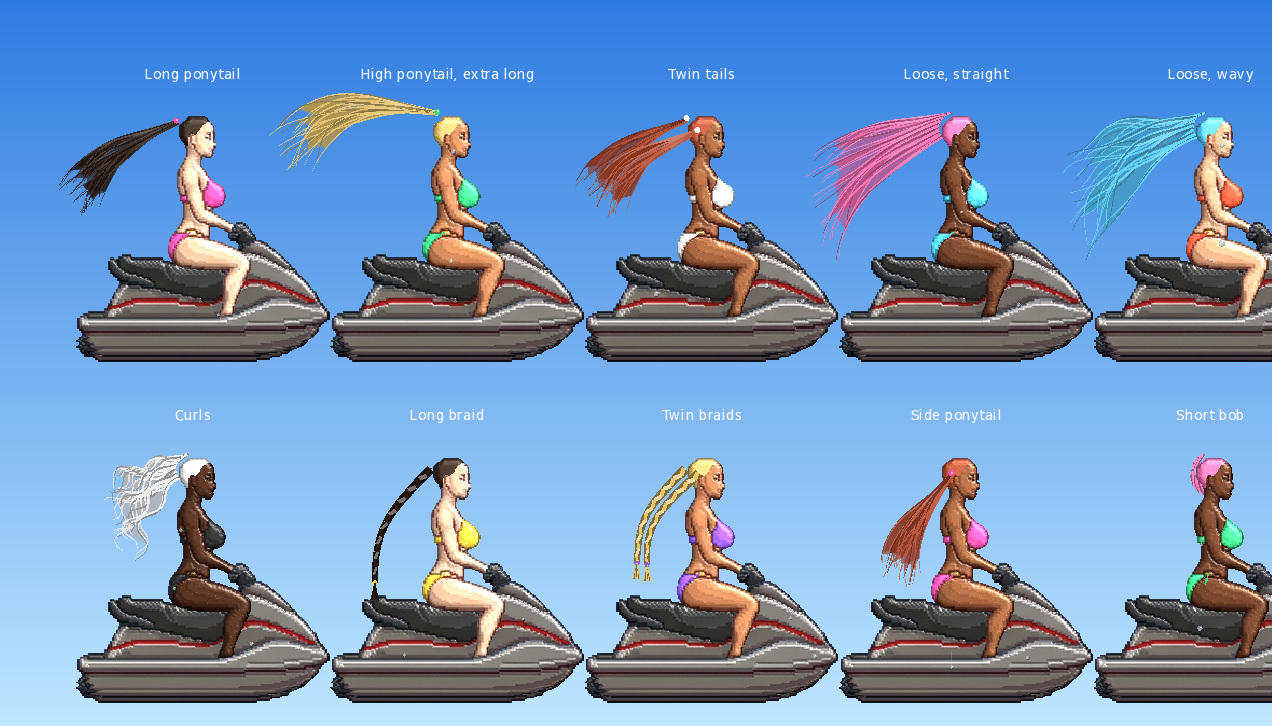
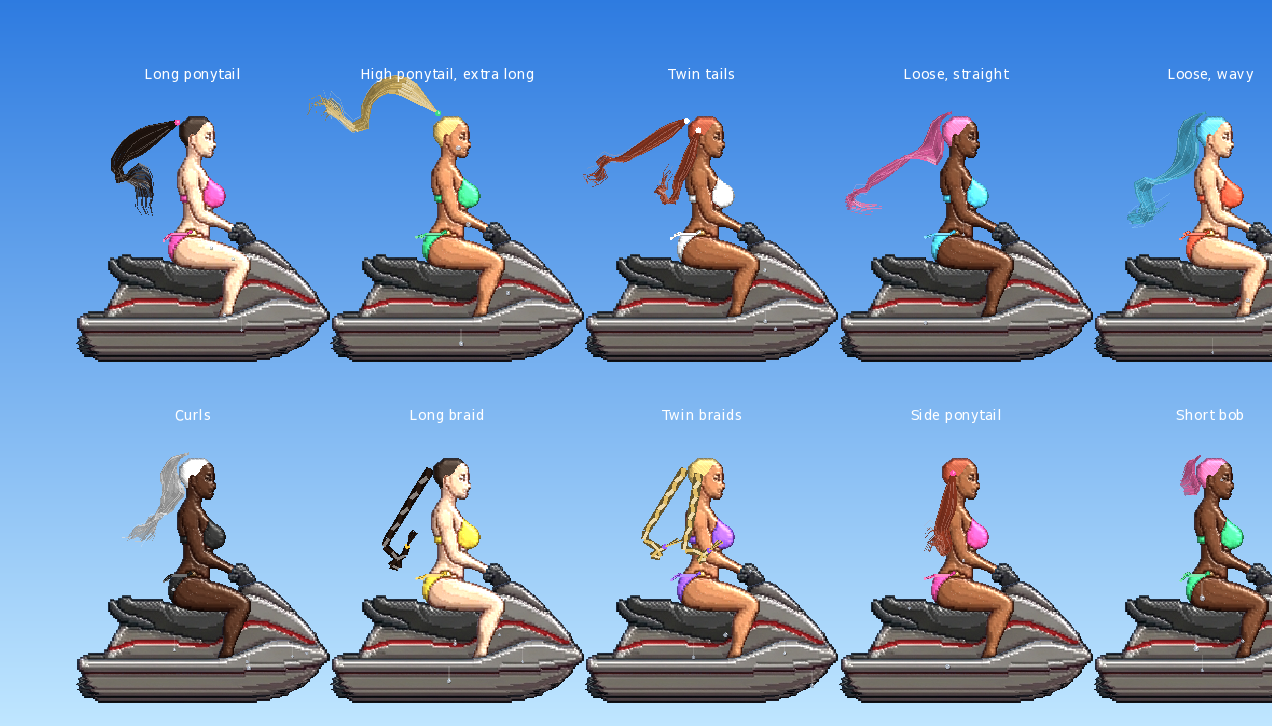
Divaverse 0.10.0: hair and tie systems rebuilt as a strand simulation
Position-based guide strands (drag against apparent wind, turbulence, rest
shape, volume, silhouette collision), interpolated render strands lit from the
tangent, wet clumping and drips. Bikini ties share the solver.

Claude-Session: https://claude.ai/code/session_01Eo8YecRa9dH6NsL1SwKCKJ

diff --git a/Apps/Player/src/WetRash.cpp b/Apps/Player/src/WetRash.cpp
@@ -661,24 +661,26 @@ void BakeSide(const Look& lk, SideSpr& sp) {
 }
 
 // ---- state
-const int HS = 30, HN = 18, HSTYLES = 10;
-// root: 0 back of the head, 1 crown, 2 twin (one behind, one in front), 3 along the scalp, 4 plait(s) from the nape, 5 bob, 6 over the near shoulder
-struct HairStyle { const wchar_t* name; int n, nodes; float seg, width, grav, wind, fan, droop, rip, wave, waveF; int root; };
+const int HG = 8, HN = 18, HSTYLES = 10, TN = 6, TMAX = 8;
+// root: 0 back of the head, 1 crown, 2 twin (one behind, one in front), 3 along the scalp, 4 plait(s) from the nape, 5 bob, 6 over the near shoulder.
+// groups x g guide strands are simulated; vol is the spacing kept between neighbours, stiffRoot / stiff how strongly the rest shape is held near the root / all along,
+// curl / curlF the rest curvature (radians per segment, and how fast it alternates), drag how much the air takes hold, dir the angle it leaves the head at (0 back, pi/2 down).
+struct HairStyle { const wchar_t* name; int root, groups, g, nodes; float seg, vol, stiffRoot, stiff, curl, curlF, drag, width, dir; };
 const HairStyle kStyle[HSTYLES] = {
-    { L"Long ponytail",        26, 16, 8.4f, 2.2f, 470, 1.00f, 0.30f, 0.55f, 0.30f, 0,     0,    0 },
-    { L"High ponytail, extra long", 26, 18, 9.4f, 2.2f, 470, 1.00f, 0.28f, 1.00f, 0.30f, 0, 0,   1 },
-    { L"Twin tails",           28, 16, 8.0f, 2.1f, 480, 1.00f, 0.30f, 0.60f, 0.30f, 0,     0,    2 },
-    { L"Loose, straight",      30, 18, 8.4f, 2.2f, 430, 1.00f, 0.75f, 0.50f, 0.24f, 0,     0,    3 },
-    { L"Loose, wavy",          30, 18, 8.4f, 2.2f, 430, 1.00f, 0.80f, 0.50f, 0.22f, 0.42f, 7.5f, 3 },
-    { L"Curls",                30, 18, 5.6f, 2.4f, 450, 0.70f, 1.00f, 0.50f, 0.16f, 1.15f, 13.f, 3 },
-    { L"Long braid",            1, 18, 7.2f, 1.5f, 760, 0.75f, 0.04f, 0.75f, 0.14f, 0,     0,    4 },
-    { L"Twin braids",           2, 16, 6.8f, 1.5f, 760, 0.75f, 0.04f, 0.75f, 0.14f, 0,     0,    4 },
-    { L"Side ponytail",        24, 16, 7.6f, 2.1f, 700, 0.55f, 0.30f, 0.50f, 0.22f, 0.20f, 6.f,  6 },
-    { L"Short bob",            22,  6, 3.6f, 2.2f, 620, 0.13f, 1.00f, 0.50f, 0.10f, 0,     0,    5 } };
+    { L"Long ponytail",             0, 1, 8, 17, 9.4f, 3.2f, 0.50f, 0.008f, 0,     0,    1.00f, 2.1f, 0.45f },
+    { L"High ponytail, extra long", 1, 1, 8, 18, 11.0f, 3.2f, 0.55f, 0.008f, 0,     0,    1.00f, 2.1f, -0.70f },
+    { L"Twin tails",                2, 2, 4, 17, 8.8f, 3.6f, 0.45f, 0.008f, 0,     0,    1.00f, 2.1f, 0.55f },
+    { L"Loose, straight",           3, 1, 8, 18, 10.2f, 1.3f, 0.40f, 0.008f, 0,     0,    1.00f, 2.2f, 0.9f },
+    { L"Loose, wavy",               3, 1, 8, 18, 10.6f, 1.5f, 0.40f, 0.10f, 0.40f, 0.9f, 0.95f, 2.2f, 0.9f },
+    { L"Curls",                     3, 1, 8, 18, 6.6f, 2.0f, 0.40f, 0.26f, 0.95f, 1.6f, 0.80f, 2.3f, 0.9f },
+    { L"Long braid",                4, 1, 1, 18, 8.4f, 0,    0.40f, 0.06f, 0,     0,    0.50f, 1.5f, 1.0f },
+    { L"Twin braids",               4, 2, 1, 17, 7.6f, 0,    0.40f, 0.06f, 0,     0,    0.50f, 1.5f, 1.0f },
+    { L"Side ponytail",             6, 1, 6, 17, 8.2f, 3.0f, 0.45f, 0.008f, 0.10f, 0.7f, 0.90f, 2.1f, 1.45f },
+    { L"Short bob",                 5, 1, 8,  7, 5.0f, 1.0f, 0.45f, 0.06f, 0,     0,    0.80f, 2.2f, 1.3f } };
 struct Bead { float x, y, vy, size, stick, age, y0; int id; };
 struct Wound { float x = 0, y = 0, t = 0; };
 struct SRider { float x = 0, hop = 0, vy = 0, duck = 0, throwT = -1, flash = 0, cool = 0, hp = 3, out = 0, aiT = 1, aiX = 0, face = 1, wet = 0.3f, jy = 0, jvy = 0, jx = 0, jvx = 0, py = 0, pvy = 0, bleed = 0, ays = 0, ha = 0.5f, hav = 0; bool threw = false, bot = true, pinit = false; float soak = 0; std::vector<Bead> beads;
-    Look look; SideSpr spr; V2 hair[HS][HN], hairP[HS][HN], tie[2][4], tieP[2][4]; bool init = false; int istyle = -1; Wound wound[5]; std::wstring name; };
+    Look look; SideSpr spr; V2 hair[HG][HN], hairP[HG][HN], tie[TMAX][TN], tieP[TMAX][TN], hO = { 0, 0 }; bool tinit[TMAX] = {}, hOk = false; int tieN = 0; bool init = false; int istyle = -1; Wound wound[5]; std::wstring name; };
 struct Spear { float x, y, vx, vy; int owner; bool live; };
 enum { FX_DROP, FX_MIST, FX_BLOOD, FX_FOAM, FX_STAIN };
 struct Fx { float x, y, vx, vy, life, max, size; int kind; uint32_t col; };
@@ -790,69 +792,115 @@ void SideDraw(SRider& r, float sx, float base, float S, float rot, bool sim) {
     int f = SideFrame(r); const SdFrameInfo& fi = kSdFrames[f]; const HairStyle& hs = kStyle[r.look.style % HSTYLES]; const float dt = 1 / 60.f;
     // sprite space: 318x237 cell, ski centre x = 117, waterline about y = 215
     auto M = D2D1::Matrix3x2F::Translation(-117, -215) * D2D1::Matrix3x2F::Scale(r.face * S, S) * D2D1::Matrix3x2F::Rotation(rot * r.face) * D2D1::Matrix3x2F::Translation(sx, base - r.hop + 4 * S);
+    auto Mnr = D2D1::Matrix3x2F::Translation(-117, -215) * D2D1::Matrix3x2F::Scale(r.face * S, S) * D2D1::Matrix3x2F::Translation(sx, base - r.hop + 4 * S);     // the same without the tilt: hair and ties live in an upright frame
     bool red = r.flash > 0 && std::fmod(r.flash, 0.12f) > 0.05f;
     auto blit = [&](int k, bool rd) { const int* b = kSdFrames[k].bbox; RectF d = RF((float)b[0], (float)b[1], (float)(b[2] - b[0]), (float)(b[3] - b[1])); C().BitmapPx((rd ? r.spr.red[k] : r.spr.f[k]).Get(), d); if (!rd && r.wet > 0.02f && r.spr.wet[k]) C().BitmapPx(r.spr.wet[k].Get(), d, std::min(1.f, r.wet)); };
     if (sim) {
         // secondary motion is driven by how the body is being accelerated, in sprite pixels
         float y = (base - r.hop) / S; if (!r.pinit) { r.py = y; r.pvy = 0; r.pinit = true; } float vy = (y - r.py) / dt, ay = std::clamp((vy - r.pvy) / dt, -5000.f, 5000.f); r.py = y; r.pvy = vy; r.ays += (ay - r.ays) * 0.15f;
         r.jvy += (-260 * r.jy - 13 * r.jvy + ay * 0.11f) * dt; r.jy = std::clamp(r.jy + r.jvy * dt, -5.f, 6.f); r.jvx += (-300 * r.jx - 15 * r.jvx) * dt; r.jx = std::clamp(r.jx + r.jvx * dt, -4.f, 4.f);
-        float hx = fi.head[0], hy = fi.head[1], hr = fi.head[2], wind = -(1050 + G.gust * 900 + (G.weather == 3 ? 620.f : G.weather == 2 ? 260.f : 0)) * hs.wind;
-        if (r.istyle != r.look.style) { r.init = false; r.istyle = r.look.style; }
-        auto chain = [&](V2* p, V2* q, int n, V2 a, float seg, float ph, float grav, float wnd, bool head) {
-            if (!r.init) for (int i = 0; i < n; ++i) p[i] = q[i] = { a.x - seg * i * 0.8f, a.y + seg * i * 0.6f }; p[0] = a;
-            for (int i = 1; i < n; ++i) { V2 v = { (p[i].x - q[i].x) * 0.94f, (p[i].y - q[i].y) * 0.94f }; q[i] = p[i]; float fl = (std::sin(G.t * 8 - i * 0.7f + ph * 0.12f) * 230 + std::sin(G.t * 17 - i * 1.1f + ph * 0.4f) * 60) * (0.3f + 0.7f * i / n);      // neighbouring strands move together, so it reads as a mass
-                p[i].x += v.x + wnd * (0.75f + 0.25f * std::sin(G.t * 3 + ph)) * dt * dt; p[i].y += v.y + (grav + fl - r.ays * 0.10f) * dt * dt; }
-            for (int it = 0; it < 4; ++it) for (int i = 1; i < n; ++i) { float dx = p[i].x - p[i - 1].x, dy = p[i].y - p[i - 1].y, d = std::sqrt(dx * dx + dy * dy) + 1e-4f, k = (d - seg) / d; p[i].x -= dx * k; p[i].y -= dy * k;
-                if (head) { float ex = p[i].x - hx, ey = p[i].y - hy, e = std::sqrt(ex * ex + ey * ey) + 1e-4f; if (e < hr * 0.98f) { p[i].x = hx + ex / e * hr * 0.98f; p[i].y = hy + ey / e * hr * 0.98f; }
-                    if (p[i].y > hy + hr * 0.7f && p[i].x > hx - hr * 0.55f) p[i].x = hx - hr * 0.55f; } } };                      // keep it behind the neck and shoulders
-        float tgt = std::atan2(hs.grav, -wind); r.hav += ((tgt - r.ha) * 60 - r.hav * 7 - r.ays * 0.0009f) * dt; r.ha = std::clamp(r.ha + r.hav * dt, -0.5f, 1.9f);                 // the whole mass swings on a spring: wind against gravity, kicked by hops and waves
-        for (int s = 0; s < hs.n; ++s) { V2 a; float u = hs.n > 1 ? s / (float)(hs.n - 1) : 0.5f, seg = hs.seg * (hs.root == 4 ? 1.f : 0.84f + 0.22f * Hash(s * 3 + 1)), th0 = r.ha;
+        // ---- hair and ties: position-based strands. They are simulated in an upright frame that travels with the rider, so every hop, wave, lunge and pose change
+        // reaches them as real motion of their roots. Forces are gravity and air drag against the apparent wind (with a travelling turbulence field); constraints keep
+        // segment length, a rest shape (stiff where the hair leaves the head or its tie, the style's curl further down), spacing between neighbouring guides (volume),
+        // and keep everything outside the head and off her back, using the sprite's own silhouette.
+        float hx = fi.head[0], hy = fi.head[1], hr = fi.head[2], cr = std::cos(rot * PI / 180), sr = std::sin(rot * PI / 180), wetH = std::clamp((r.wet - 0.3f) * 1.4f, 0.f, 1.f);
+        auto up = [&](V2 p) { float x = p.x - 117, y = p.y - 215; return V2{ 117 + x * cr - y * sr, 215 + x * sr + y * cr }; };            // sprite -> upright
+        auto dn = [&](V2 p) { float x = p.x - 117, y = p.y - 215; return V2{ 117 + x * cr + y * sr, 215 - x * sr + y * cr }; };            // upright -> sprite
+        auto alphaAt = [&](int k, V2 s) { const int* b = kSdFrames[k].bbox; int xi = (int)std::floor(s.x) - b[0], yi = (int)std::floor(s.y) - b[1], w = b[2] - b[0]; const auto& am = r.spr.am[k];
+            return xi >= 0 && yi >= 0 && xi < w && yi < b[3] - b[1] && (size_t)(yi * w + xi) < am.size() && am[(size_t)yi * w + xi] > 128; };
+        auto collide = [&](V2& p, V2& q, float m) { V2 s = dn(p); /* m: how far off the surface this strand rides, so the layers stack into a thickness */ bool hit = false; float ex = s.x - hx, ey = s.y - hy, e = std::sqrt(ex * ex + ey * ey);
+            if (e < hr * 0.97f + m * 0.6f && e > 1e-3f) { s.x = hx + ex / e * (hr * 0.97f + m * 0.6f); s.y = hy + ey / e * (hr * 0.97f + m * 0.6f); hit = true; }
+            if (alphaAt(f, { s.x + m, s.y })) for (int k = 1; k <= 22; ++k) if (!alphaAt(f, { s.x + m - k, s.y })) { s.x -= k - 0.4f; hit = true; break; }                     // off her back: out toward behind her
+            if (alphaAt(SD_BODY, s)) for (int k = 1; k <= 12; ++k) if (!alphaAt(SD_BODY, { s.x, s.y - k })) { s.y -= k - 0.4f; hit = true; break; }         // and it lies on the seat
+            if (hit) { V2 n = up(s); q = { n.x - (p.x - q.x) * 0.55f, n.y - (p.y - q.y) * 0.55f }; p = n; } };                                             // friction where it touches
+        V2 O = { r.face * sx / S, (base - r.hop) / S }; if (!r.hOk || r.istyle != r.look.style) { r.hO = O; r.hOk = true; r.init = false; r.istyle = r.look.style; for (bool& b : r.tinit) b = false; }
+        V2 dO = { std::clamp(O.x - r.hO.x, -30.f, 30.f), std::clamp(O.y - r.hO.y, -30.f, 30.f) }; r.hO = O;
+        const int NG = hs.groups * hs.g; const float h = 1 / 120.f, air = -(250 + G.gust * 330 + (G.weather == 3 ? 210.f : G.weather == 2 ? 95.f : 0)), turb = 250.f + 150 * G.weather;
+        auto rootOf = [&](int g, V2& a, float& th) { int grp = g / hs.g; float u = hs.g > 1 ? (g % hs.g) / (float)(hs.g - 1) : 0.5f;
             switch (hs.root) {
-            case 0: a = { hx - hr * 0.80f + (s % 3 - 1) * 0.9f, hy - hr * 0.30f + (u - 0.5f) * 3.2f }; break;
-            case 1: a = { hx - hr * 0.42f + (s % 3 - 1) * 0.8f, hy - hr * 0.86f + (u - 0.5f) * 2.4f }; th0 -= 0.55f; break;                                  // leaves the crown rising, then falls
-            case 2: if (s & 1) a = { hx - hr * 0.05f + (u - 0.5f) * 2, hy + hr * 0.15f + (s % 4) * 0.5f }; else a = { hx - hr * 0.78f, hy - hr * 0.45f + (u - 0.5f) * 3 }; break;
-            case 3: { float an = (98 + 125 * u) * PI / 180; a = { hx + std::cos(an) * hr * 0.9f, hy - std::sin(an) * hr * 0.9f }; seg *= 0.85f + 0.3f * u; } break;
-            case 4: if (s == 1) a = { hx - hr * 0.02f, hy + hr * 0.32f }; else a = { hx - hr * 0.86f, hy + hr * 0.04f }; break;
-            case 6: a = { hx - hr * 0.05f + (u - 0.5f) * 2.5f, hy + hr * 0.30f + (s % 4) * 0.5f }; break;
-            default: { float an = (105 + 135 * u) * PI / 180; a = { hx + std::cos(an) * hr * 0.92f, hy - std::sin(an) * hr * 0.92f }; } break; }
-            // each strand is a curve leaving the head at the mass's current angle; it droops, ripples and (for wavy and curly styles) curls more toward the tip. Strands curl in locks of three.
-            V2* p = r.hair[s]; p[0] = a; th0 += (u - 0.5f) * hs.fan * 0.4f + (Hash(s * 17 + 5) - 0.5f) * 0.10f; float lock = (s / 3) * 1.9f;
-            for (int i = 1; i < hs.nodes; ++i) { float t = i / (float)(hs.nodes - 1), th = th0 + hs.droop * t * t + hs.rip * t * std::sin(G.t * 7.5f - t * 4.6f + s * 0.31f) + hs.rip * 0.4f * t * std::sin(G.t * 13 - t * 9 + s * 1.1f)
-                    + hs.wave * std::sin(t * hs.waveF + lock) * (0.3f + 0.7f * t) + (u - 0.5f) * hs.fan * t;
-                p[i] = { p[i - 1].x - std::cos(th) * seg, p[i - 1].y + std::sin(th) * seg }; } }
-        for (int k = 0; k < 2 && fi.nTies; ++k) chain(r.tie[k], r.tieP[k], 4, { fi.ties[0][0], fi.ties[0][1] }, 3.6f, k * 3.f + 7, 520, wind * 0.8f, false);
+            case 0: a = { hx - hr * 0.80f, hy - hr * 0.30f + (u - 0.5f) * 2.4f }; th = hs.dir + (u - 0.5f) * 0.55f; break;
+            case 1: a = { hx - hr * 0.42f + (u - 0.5f) * 1.6f, hy - hr * 0.86f }; th = hs.dir + (u - 0.5f) * 0.5f; break;
+            case 2: if (grp) { a = { hx - hr * 0.05f, hy + hr * 0.18f + (u - 0.5f) * 2 }; th = 1.25f + (u - 0.5f) * 0.4f; } else { a = { hx - hr * 0.78f, hy - hr * 0.42f + (u - 0.5f) * 2.4f }; th = hs.dir + (u - 0.5f) * 0.5f; } break;
+            case 3: { float an = (96 + 128 * u) * PI / 180; a = { hx + std::cos(an) * hr * 0.92f, hy - std::sin(an) * hr * 0.92f }; th = std::min(an - PI / 2, 1.75f); } break;                   // leaves along the scalp, toward the nape
+            case 4: if (grp) { a = { hx - hr * 0.02f, hy + hr * 0.34f }; th = 1.4f; } else { a = { hx - hr * 0.86f, hy + hr * 0.04f }; th = 1.0f; } break;
+            case 6: a = { hx - hr * 0.05f + (u - 0.5f) * 2.5f, hy + hr * 0.30f }; th = hs.dir + (u - 0.5f) * 0.35f; break;
+            default: { float an = (118 + 128 * u) * PI / 180; a = { hx + std::cos(an) * hr * 0.94f, hy - std::sin(an) * hr * 0.94f }; th = std::min(an - PI / 2, 1.7f); } break; }
+            a = up(a); th -= rot * PI / 180; };
+        auto integ = [&](V2* p, V2* q, int n, float drag, float grav) { for (int i = 1; i < n; ++i) { p[i].x -= dO.x * 0.5f; p[i].y -= dO.y * 0.5f; q[i].x -= dO.x * 0.5f; q[i].y -= dO.y * 0.5f;      // the rider moved; the hair has not yet
+            V2 v = { (p[i].x - q[i].x) / h, (p[i].y - q[i].y) / h }; float tx = N2((p[i].x + O.x) * 0.021f + G.t * 2.4f, p[i].y * 0.021f + r.x * 7) - 0.5f, ty = N2((p[i].x + O.x) * 0.021f + 31 + G.t * 2.0f, p[i].y * 0.021f - 17) - 0.5f;
+            float ax = drag * (air + tx * turb * 2 - v.x), ay = drag * (ty * turb * 1.3f - v.y) + grav; q[i] = p[i]; p[i].x += v.x * h * 0.994f + ax * h * h; p[i].y += v.y * h * 0.994f + ay * h * h; } };
+        auto shape = [&](V2* p, V2* q, int n, V2 root, float th0, float seg, float stiffRoot, float stiff, float curl, float curlF, float ph, bool col, float m) {
+            p[0] = root; V2 d0 = { -std::cos(th0), std::sin(th0) };
+            for (int i = 1; i < n; ++i) { float t = i / (float)(n - 1); V2 pd = d0; if (i > 1) { float dx = p[i - 1].x - p[i - 2].x, dy = p[i - 1].y - p[i - 2].y, l = std::sqrt(dx * dx + dy * dy) + 1e-4f; pd = { dx / l, dy / l }; }
+                float k = i > 1 ? curl * std::sin(i * curlF + ph) : 0, ck = std::cos(k), sk = std::sin(k), st = stiffRoot * std::max(0.f, 1 - (i - 1) / 3.f) + stiff;                 // the root direction is held for the first few segments only; after that it is the style's own springiness
+                p[i].x += (p[i - 1].x + (pd.x * ck - pd.y * sk) * seg - p[i].x) * st; p[i].y += (p[i - 1].y + (pd.x * sk + pd.y * ck) * seg - p[i].y) * st;
+                float dx = p[i].x - p[i - 1].x, dy = p[i].y - p[i - 1].y, d = std::sqrt(dx * dx + dy * dy) + 1e-4f, c = (d - seg) / d;
+                if (i > 1) { p[i - 1].x += dx * c * 0.12f; p[i - 1].y += dy * c * 0.12f; p[i].x -= dx * c * 0.88f; p[i].y -= dy * c * 0.88f; } else { p[i].x -= dx * c; p[i].y -= dy * c; }
+                if (col && i >= 2) collide(p[i], q[i], m); } };
+        auto lay = [&](V2* p, V2* q, int n, V2 root, float th0, float seg) { float th = th0 * 0.5f + 0.75f; for (int i = 0; i < n; ++i) p[i] = q[i] = { root.x - std::cos(th) * seg * i, root.y + std::sin(th) * seg * i }; };
+        V2 ra[HG]; float rth[HG]; for (int g = 0; g < NG; ++g) { rootOf(g, ra[g], rth[g]); if (!r.init) lay(r.hair[g], r.hairP[g], hs.nodes, ra[g], rth[g], hs.seg); }
+        int nt = std::min(fi.nTies, TMAX / 2); V2 ta[TMAX]; for (int k = 0; k < nt * 2; ++k) { ta[k] = up({ fi.ties[k / 2][0], fi.ties[k / 2][1] }); if (!r.tinit[k]) { lay(r.tie[k], r.tieP[k], TN, ta[k], 1.3f + (k & 1) * 0.5f, 2.6f); r.tinit[k] = true; } }
         r.init = true;
+        for (int sub = 0; sub < 2; ++sub) {
+            for (int g = 0; g < NG; ++g) integ(r.hair[g], r.hairP[g], hs.nodes, 3.3f * hs.drag * (1 - 0.35f * wetH), 1150 * (1 + 0.25f * wetH));
+            for (int k = 0; k < nt * 2; ++k) integ(r.tie[k], r.tieP[k], TN, 5.5f, 1150);
+            for (int it = 0; it < 3; ++it) {
+                for (int g = 0; g < NG; ++g) shape(r.hair[g], r.hairP[g], hs.nodes, ra[g], rth[g], hs.seg * (1 - 0.05f * (g % 3)), hs.stiffRoot, hs.stiff, hs.curl, hs.curlF, g * 2.1f, !(hs.root == 6 || ((hs.root == 2 || hs.root == 4) && g >= hs.g)), (hs.root == 3 || hs.root == 5 ? (hs.g - 1 - g % hs.g) : (g % hs.g)) * 1.25f);
+                for (int g = 0; g + 1 < NG; ++g) { if ((g + 1) % hs.g == 0) continue;                                                                    // volume: neighbours neither merge nor part
+                    for (int i = 1; i < hs.nodes; ++i) { float t = i / (float)(hs.nodes - 1), dmin = hs.vol * (0.25f + 0.75f * t) * (1 - 0.55f * wetH), dmax = dmin * 2.3f + 1; V2& a = r.hair[g][i], &b = r.hair[g + 1][i];
+                        float dx = b.x - a.x, dy = b.y - a.y, d = std::sqrt(dx * dx + dy * dy); if (d < 1e-3f) { dx = 0; dy = 1; d = 1; a.y -= 0.01f; } float want = d < dmin ? dmin : d > dmax ? dmax : d;
+                        if (want != d) { float c = (want - d) / d * 0.5f; a.x -= dx * c; a.y -= dy * c; b.x += dx * c; b.y += dy * c; } } }
+                for (int k = 0; k < nt * 2; ++k) shape(r.tie[k], r.tieP[k], TN, ta[k], 1.3f + (k & 1) * 0.5f - rot * PI / 180, 2.4f + (k & 1) * 0.6f, 0.22f, 0, 0, 0, 0, true, 0.5f);
+            }
+            dO = { dO.x, dO.y };
+        }
+        r.tieN = nt * 2;
+        if (wetH > 0.5f && Rnd(G.rng) < 0.3f * wetH) { V2 tp = r.hair[(int)(Rnd(G.rng) * NG) % NG][hs.nodes - 1]; D2D1_POINT_2F wp = Mnr.TransformPoint({ tp.x, tp.y }); Emit(FX_DROP, wp.x, wp.y, -r.face * 50 * S, 30 * S, 0.7f, (1 + Rnd(G.rng)) * S); }   // wet hair drips from the ends
     }
-    Color hc = Hex(kHair[r.look.hair]), hd = Mix(hc, Hex(0x000000), 0.45f), hl = Mix(hc, Hex(0xFFFFFF), 0.38f), bc = Hex(kBikini[r.look.bikini]);
-    auto inFront = [&](int s) { return (hs.root == 2 && (s & 1)) || hs.root == 6 || (hs.root == 4 && s == 1); };
+    float wetD = std::clamp((r.wet - 0.3f) * 1.4f, 0.f, 1.f);
+    Color hc = Mix(Hex(kHair[r.look.hair]), Hex(0x000000), 0.22f * wetD), hd = Mix(hc, Hex(0x000000), 0.55f), hl = Mix(hc, Hex(0xFFFFFF), 0.45f), bc = Hex(kBikini[r.look.bikini]);
     auto strands = [&](int phase) {                                                                // phase 0 behind her, 1 in front of her shoulder
-        if (hs.root == 4) { for (int s = 0; s < hs.n; ++s) { if (inFront(s) != (phase == 1)) continue; V2* p = r.hair[s];          // plait: crossing links along the chain, then a tuft
-            for (int i = 1; i < hs.nodes; ++i) { float t = i / (float)hs.nodes, w = 3.8f * (1 - t * 0.5f); V2 a = p[i - 1], b = p[i]; C().Line(a.x, a.y, b.x, b.y, hd, w * 2 + 1.4f); }
-            for (int i = 1; i < hs.nodes; ++i) { float t = i / (float)hs.nodes, w = 3.8f * (1 - t * 0.5f); V2 a = p[i - 1], b = p[i]; float nx = -(b.y - a.y), ny = b.x - a.x, l = std::sqrt(nx * nx + ny * ny) + 1e-4f, o = (i & 1 ? 1.f : -1.f) * w * 0.45f; nx /= l; ny /= l;
-                C().Line(a.x + nx * o, a.y + ny * o, b.x - nx * o, b.y - ny * o, i & 1 ? hc : hl, w * 1.15f); }
-            V2 e = p[hs.nodes - 1], e0 = p[hs.nodes - 2]; float dx = e.x - e0.x, dy = e.y - e0.y; C().Circle(e.x, e.y, 2.4f, bc); for (int k = -3; k <= 3; ++k) C().Line(e.x, e.y, e.x + dx * 1.9f + k * 1.2f, e.y + dy * 1.9f + std::fabs((float)k), k & 1 ? hc : hd, 1.1f); }
-            return; }
-        int idx[HS], n = 0; for (int s = 0; s < hs.n; ++s) if (inFront(s) == (phase == 1)) idx[n++] = s; if (!n) return;
-        Color body = Mix(hd, hc, 0.45f);                                                           // the mass: filled between neighbouring strands, thinning out before the tips
-        for (int k = 1; k < n; ++k) { V2* A = r.hair[idx[k - 1]], *B = r.hair[idx[k]]; for (int i = 1; i < hs.nodes; ++i) { float t = i / (float)(hs.nodes - 1); if (t > 0.88f) break;
-            C().Quad(A[i - 1].x, A[i - 1].y, B[i - 1].x, B[i - 1].y, B[i].x, B[i].y, A[i].x, A[i].y, Alpha(body, 1 - t * 0.45f)); } }
-        for (int k = 0; k < n; ++k) { int s = idx[k]; V2* p = r.hair[s]; float lit = 1 - k / (float)std::max(1, n - 1);                    // upper strands catch the light
-            Color base = s % 4 == 0 ? hd : Mix(hc, hl, 0.15f + 0.45f * lit * (s % 2));
-            for (int i = 1; i < hs.nodes; ++i) { float t = i / (float)(hs.nodes - 1), w = hs.width * (1 - t * 0.72f), sh = (std::exp(-(t - 0.26f) * (t - 0.26f) * 45) + 0.5f * std::exp(-(t - 0.66f) * (t - 0.66f) * 60)) * (s % 2 ? 0.8f : 0.3f) * (0.4f + 0.6f * lit);
-                C().Line(p[i - 1].x, p[i - 1].y, p[i].x, p[i].y, Alpha(Mix(base, hl, sh), 1 - t * 0.3f), w); } }                                          // two sheen bands along the length
-        if (hs.root == 0 || hs.root == 1 || hs.root == 2 || hs.root == 6) { V2 a = r.hair[idx[0]][0]; C().Circle(a.x, a.y, 2.8f, bc); C().Circle(a.x + 0.6f, a.y - 0.6f, 1.1f, Mix(bc, Hex(0xFFFFFF), 0.5f)); }   // hair tie
+        for (int grp = 0; grp < hs.groups; ++grp) { bool front = hs.root == 6 || ((hs.root == 2 || hs.root == 4) && grp == 1); if (front != (phase == 1)) continue; int g0 = grp * hs.g;
+            if (hs.root == 4) { V2* p = r.hair[g0];                                                // plait: crossing links along the chain, then a tuft
+                for (int i = 1; i < hs.nodes; ++i) { float t = i / (float)hs.nodes, w = 3.8f * (1 - t * 0.5f); V2 a = p[i - 1], b = p[i]; C().Line(a.x, a.y, b.x, b.y, hd, w * 2 + 1.4f); }
+                for (int i = 1; i < hs.nodes; ++i) { float t = i / (float)hs.nodes, w = 3.8f * (1 - t * 0.5f); V2 a = p[i - 1], b = p[i]; float nx = -(b.y - a.y), ny = b.x - a.x, l = std::sqrt(nx * nx + ny * ny) + 1e-4f, o = (i & 1 ? 1.f : -1.f) * w * 0.45f; nx /= l; ny /= l;
+                    C().Line(a.x + nx * o, a.y + ny * o, b.x - nx * o, b.y - ny * o, i & 1 ? hc : hl, w * 1.15f); }
+                V2 e = p[hs.nodes - 1], e0 = p[hs.nodes - 2]; float dx = e.x - e0.x, dy = e.y - e0.y; C().Circle(e.x, e.y, 2.4f, bc); for (int k = -3; k <= 3; ++k) C().Line(e.x, e.y, e.x + dx * 1.9f + k * 1.2f, e.y + dy * 1.9f + std::fabs((float)k), k & 1 ? hc : hd, 1.1f);
+                continue; }
+            // render strands are interpolated between the simulated guides; each has its own length and offset, and they gather into locks when wet
+            const int K = 5, NS = (hs.g - 1) * K + 1; static V2 rs[(HG - 1) * 5 + 1][HN]; int len[(HG - 1) * 5 + 1];
+            for (int s = 0; s < NS; ++s) { int g = std::min(s / K, hs.g - 2); float a = (s - g * K) / (float)K; a += (std::round(a) - a) * 0.75f * wetD; V2* A = r.hair[g0 + g], *B = r.hair[g0 + g + 1];
+                float ox = (Hash(s * 7 + 3) - 0.5f) * 3.4f * (1 - 0.6f * wetD), oy = (Hash(s * 13 + 1) - 0.5f) * 3.4f * (1 - 0.6f * wetD); len[s] = std::max(2, (int)((0.78f + 0.22f * Hash(s * 5 + 9)) * (hs.nodes - 1)));
+                for (int i = 0; i < hs.nodes; ++i) { float t = i / (float)(hs.nodes - 1); rs[s][i] = { A[i].x + (B[i].x - A[i].x) * a + ox * t, A[i].y + (B[i].y - A[i].y) * a + oy * t }; } }
+            Color body = Mix(hd, hc, 0.30f);                                                       // the mass under the strands
+            for (int g = 1; g < hs.g; ++g) { V2* A = r.hair[g0 + g - 1], *B = r.hair[g0 + g]; for (int i = 1; i < hs.nodes; ++i) { float t = i / (float)(hs.nodes - 1); if (t > 0.86f) break;     // filled guide to guide: one quad per segment
+                C().Quad(A[i - 1].x, A[i - 1].y, B[i - 1].x, B[i - 1].y, B[i].x, B[i].y, A[i].x, A[i].y, Alpha(body, 0.95f - t * 0.4f)); } }
+            const float Lx = 0.53f * r.face, Ly = -0.85f;                                           // light direction in the sprite's (possibly mirrored) frame
+            for (int s = 0; s < NS; ++s) { float sh = (Hash(s * 11 + 2) - 0.5f) * 0.30f, depth = 0.55f + 0.45f * Hash(s * 3 + 7); Color base = Mix(hd, hc, depth);
+                for (int i = 1; i <= len[s]; ++i) { float t = i / (float)(hs.nodes - 1), tl = i / (float)len[s], w = hs.width * (1 - tl * 0.75f) * (1 + 0.35f * wetD);
+                    float dx = rs[s][i].x - rs[s][i - 1].x, dy = rs[s][i].y - rs[s][i - 1].y, l = std::sqrt(dx * dx + dy * dy) + 1e-4f, c = (dx * Lx + dy * Ly) / l;                 // strand tangent against the light:
+                    float diff = std::sqrt(std::max(0.f, 1 - c * c)), c1 = c + sh, s1 = std::pow(std::max(0.f, 1 - c1 * c1), 46.f), c2 = c - 0.38f + sh * 2, s2 = std::pow(std::max(0.f, 1 - c2 * c2), 12.f);   // a tight white lobe and a broad coloured one, shifted per strand
+                    Color col = Mix(Mix(Mix(hd, base, 0.35f + 0.65f * diff), hl, s2 * 0.45f), Hex(0xFFFFFF), s1 * (0.55f + 0.35f * wetD) * depth);
+                    C().Line(rs[s][i - 1].x, rs[s][i - 1].y, rs[s][i].x, rs[s][i].y, Alpha(col, 1 - t * 0.25f), w); } }
+            for (int k = 0; k < 4; ++k) { int s = (int)(Hash(k * 17 + 5) * NS) % NS; float oy = (k & 1 ? -1.f : 1.f) * (3 + 3 * Hash(k)) * (1 - wetD);                                   // flyaways
+                for (int i = 2; i <= len[s]; ++i) { float t = i / (float)(hs.nodes - 1), t0 = (i - 1) / (float)(hs.nodes - 1); C().Line(rs[s][i - 1].x, rs[s][i - 1].y + oy * t0 * t0 * 2.2f, rs[s][i].x, rs[s][i].y + oy * t * t * 2.2f, Alpha(hl, 0.5f * (1 - t * 0.6f)), 0.7f); } }
+            if (hs.root == 0 || hs.root == 1 || hs.root == 2 || hs.root == 6) { V2 a = r.hair[g0 + hs.g / 2][0]; C().Circle(a.x, a.y, 2.8f, bc); C().Circle(a.x + 0.6f * r.face, a.y - 0.6f, 1.1f, Mix(bc, Hex(0xFFFFFF), 0.5f)); }   // hair tie
+        }
     };
+    auto ties = [&]() { Color dk = Mix(bc, Hex(0x000000), 0.4f), lt = Mix(bc, Hex(0xFFFFFF), 0.35f);
+        for (int k = 0; k < r.tieN; ++k) { V2* p = r.tie[k]; for (int i = 1; i < TN; ++i) C().Line(p[i - 1].x, p[i - 1].y, p[i].x, p[i].y, dk, 2.0f);
+            for (int i = 1; i < TN; ++i) C().Line(p[i - 1].x, p[i - 1].y, p[i].x, p[i].y, i & 1 ? bc : lt, 1.1f); C().Circle(p[TN - 1].x, p[TN - 1].y, 1.3f, lt);
+            if (!(k & 1)) { C().Circle(p[0].x, p[0].y, 1.9f, dk); C().Circle(p[0].x, p[0].y, 1.2f, bc); } } };
     C().SetTransform(M);
     blit(SD_BODY, false);
-    strands(0);
+    C().SetTransform(Mnr); strands(0); C().SetTransform(M);
     blit(f, red);
     if (r.spr.ch[f] && (std::fabs(r.jy) > 0.05f || std::fabs(r.jx) > 0.05f)) {                    // chest: redrawn sprung, hinged on its inner upper corner, squashing as it travels
         const int* q = r.spr.chest[f]; float w = (float)(q[2] - q[0]), h = (float)(q[3] - q[1]); D2D1_POINT_2F pv{ (float)q[0], (float)q[1] };
         C().SetTransform(D2D1::Matrix3x2F::Scale(1 + r.jx * 0.02f - r.jy * 0.012f, 1 + r.jy * 0.035f, pv) * D2D1::Matrix3x2F::Skew(0, r.jy * 1.6f, pv) * D2D1::Matrix3x2F::Translation(r.jx * 0.5f, r.jy * 0.45f) * M);
         C().BitmapPx((red ? r.spr.chRed[f] : r.spr.ch[f]).Get(), RF((float)q[0], (float)q[1], w, h)); C().SetTransform(M); }
     for (auto& wd : r.wound) if (wd.t > 0) { float a = std::min(1.f, wd.t / 3), run = (9 - wd.t) * 2.2f; C().Line(wd.x, wd.y, wd.x - 0.5f, wd.y + std::min(9.f, run), Hex(0x8E0A14, a * 0.8f), 1.0f); C().Circle(wd.x, wd.y, 2.1f, Hex(0x7A0811, a)); C().Circle(wd.x + 0.5f, wd.y - 0.4f, 1.0f, Hex(0xD8202A, a)); }
-    if (fi.nTies) for (int k = 0; k < 2; ++k) for (int i = 1; i < 4; ++i) C().Line(r.tie[k][i - 1].x, r.tie[k][i - 1].y, r.tie[k][i].x, r.tie[k][i].y, bc, 1.2f);
-    strands(1);
+    C().SetTransform(Mnr); ties(); strands(1); C().SetTransform(M);
     { // hull over her feet, as layered by the artist. What is under the waterline is seen through the water: drawn in thin rows that shift sideways and sit a little shallower
         const int* b = kSdFrames[SD_HULL].bbox; const int WL = 213; float w = (float)(b[2] - b[0]);
         if (!sim || r.hop > 3 * S || b[3] <= WL) blit(SD_HULL, false);
@@ -1080,10 +1128,10 @@ bool WetRashShot(const std::wstring& path, int scene) {
         G.weather = 0; G.auto_ = true; SideStart(); RedrawWindow(G.h, nullptr, nullptr, RDW_INVALIDATE | RDW_UPDATENOW); int hit = -1;
         for (int i = 0; i < 60 * 40 && !SD.over; ++i) { G.t += 1 / 60.f; SideTick(1 / 60.f); if (hit < 0 && (SD.r[1].flash > 0 || SD.r[2].flash > 0)) hit = i; if (hit >= 0 && i > hit + 13) break; }
         ok = hit >= 0; Log("wet-rash qa: hit scene, first hit at frame %d, fx %zu", hit, SD.fx.size()); SD.freeze = true;
-    } else if (scene == 11) { G.weather = 0; SideStart(); SD.freeze = true; SD.sheet = true;
+    } else if (scene >= 11 && scene <= 13) { G.weather = scene == 13 ? 3 : 0; SideStart(); SD.freeze = true; SD.sheet = true;       // hair sheet: settled, a moment later, and in a hurricane
     } else if (scene == 10) { G.mode = Game::RIDER; G.custSel = 4; G.look.style = 2;
     } else if (scene == 3) G.mode = Game::RIDER; else if (scene == 4) G.mode = Game::CONTROLS;
-    for (int i = 0; i < 40; ++i) {              // let the window map and paint a few real frames before reading it back
+    for (int i = 0, nfr = scene == 11 ? 80 : scene == 12 ? 92 : scene == 13 ? 100 : 40; i < nfr; ++i) {              // let the window map and paint a few real frames before reading it back
         MSG m; while (PeekMessageW(&m, nullptr, 0, 0, PM_REMOVE)) { TranslateMessage(&m); DispatchMessageW(&m); }
         if (G.mode == Game::MENU || G.mode == Game::RIDER || G.mode == Game::SIDE) Tick(1 / 60.f); else { G.t += 1 / 60.f; for (auto& q : G.parts) { q.x += q.vx / 60; q.y += q.vy / 60; q.life -= 1 / 60.f; } }
         RedrawWindow(G.h, nullptr, nullptr, RDW_INVALIDATE | RDW_UPDATENOW); Sleep(16);

diff --git a/Apps/Player/src/App.cpp b/Apps/Player/src/App.cpp
@@ -1001,7 +1001,7 @@ int WINAPI wWinMain(HINSTANCE hi, HINSTANCE, PWSTR, int) {
     SetProcessDpiAwarenessContext(DPI_AWARENESS_CONTEXT_PER_MONITOR_AWARE_V2);   // also in manifest
     CoInitializeEx(nullptr, COINIT_APARTMENTTHREADED);
     LogInit();
-    Log("Divaverse 0.9.0 starting");
+    Log("Divaverse 0.10.0 starting");
     int argc = 0; wchar_t** argv = CommandLineToArgvW(GetCommandLineW(), &argc);
     App app; g_app = &app;
     int rc = app.Run(hi, argc, argv);

diff --git a/CHANGELOG.md b/CHANGELOG.md
@@ -1,5 +1,24 @@
 # Changelog
 
+## 0.10.0 (hair and tie systems rebuilt)
+- Hair is now a position-based strand simulation instead of animated curves. Up to 8 guide strands of up to 18
+  nodes per rider, two substeps per frame:
+  - forces: gravity and air drag against the apparent wind, with a travelling turbulence field shared by all
+    strands (so ripples pass through the mass coherently);
+  - constraints: segment length; a rest shape (the direction it leaves the head or its tie is held for the first
+    few segments, then only the style's own springiness and curl); spacing between neighbouring guides, which is
+    what gives the mass volume; collision with the head, her back (the sprite's own silhouette) and the seat, with
+    friction, strands stacking in layers;
+  - simulated in an upright frame that travels with the rider, so hops, waves, lunges and pose changes reach the
+    hair as real motion of its roots.
+- Rendering: about 36 strands interpolated between the guides, each with its own length and offset; lit from the
+  strand tangent with a tight white highlight and a broad coloured one, shifted per strand; filled mass under
+  them; flyaways. Wet hair darkens, gathers into locks, gets heavier and drips from the ends.
+- Bikini ties use the same solver: two strings per tie point (all tie points in the frame, not just the first),
+  drawn as ribbons with a knot and end beads, colliding with the body.
+- All ten styles retuned and lengthened for the new system.
+- QA scenes: --uishot 52 (hair sheet a few frames later), 53 (hair sheet in a hurricane).
+
 ## 0.9.0 (hair, reflections, refraction, beads)
 - Hair: ten styles (long ponytail, extra-long high ponytail, twin tails, loose straight, loose wavy, curls, long
   braid, twin braids, side ponytail, short bob), up to hip length and beyond. The mass is filled between
